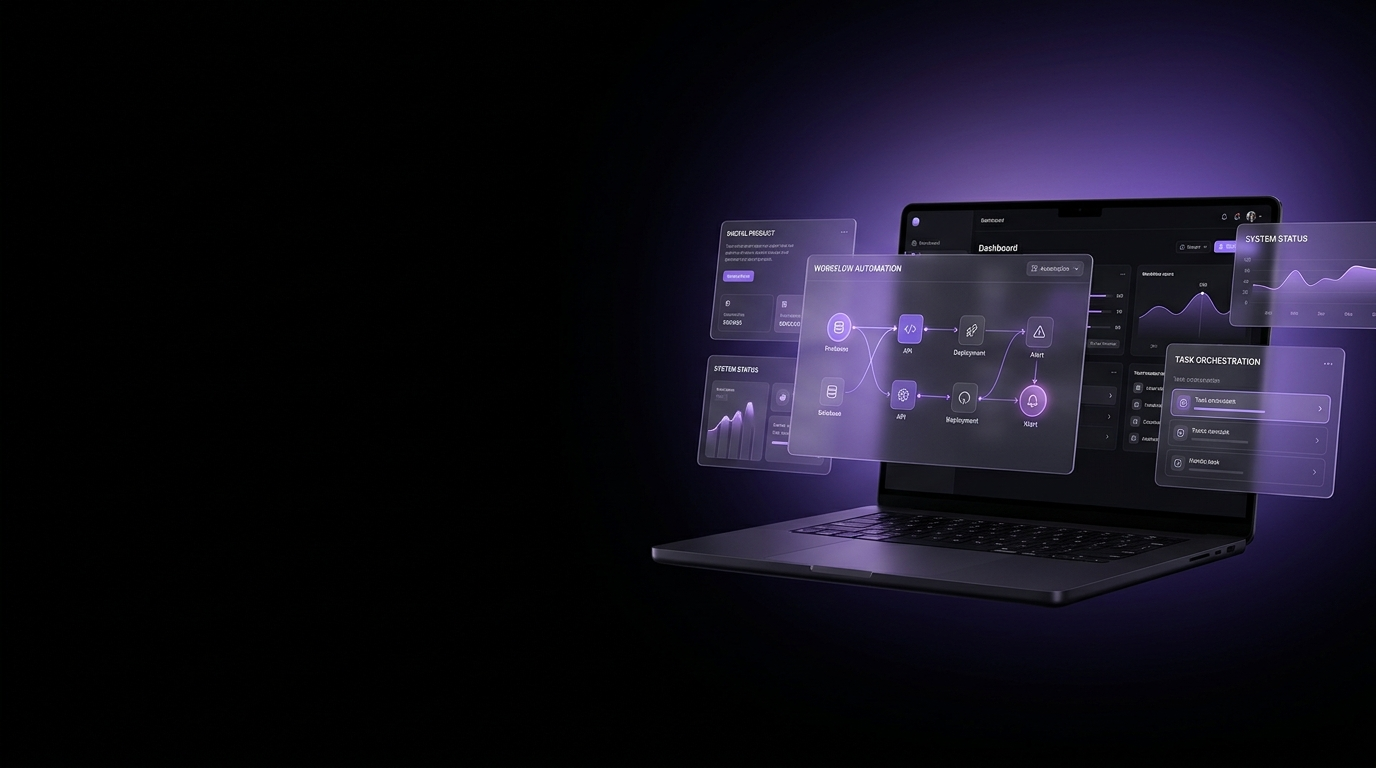
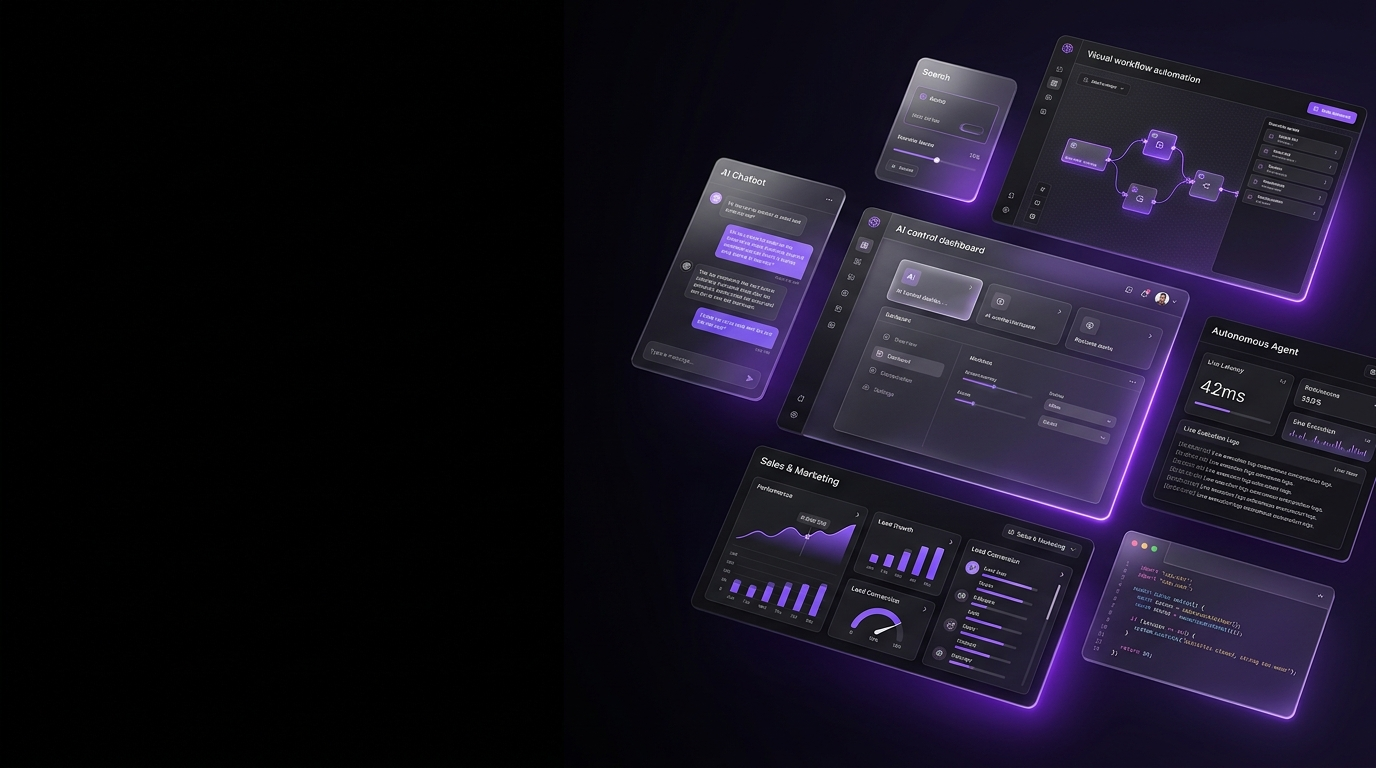
feat: implement modular 3D UI ecosystem hero visual with top headline alignment

diff --git a/src/components/sections/Hero.tsx b/src/components/sections/Hero.tsx
@@ -155,9 +155,9 @@ export default function Hero() {
         aria-hidden="true"
       />
 
-      {/* Hero Visual Artwork: Seamlessly blended on the right side */}
+      {/* Hero Visual Artwork: Seamlessly blended on the right side, starting aligned with headline */}
       <div 
-        className="absolute right-0 top-0 bottom-0 w-full md:w-3/4 lg:w-3/5 xl:w-1/2 pointer-events-none z-0 overflow-hidden"
+        className="absolute right-0 top-4 sm:top-8 lg:top-12 bottom-0 w-full md:w-3/4 lg:w-7/12 xl:w-1/2 pointer-events-none z-0 overflow-hidden"
         aria-hidden="true"
       >
         <Image
@@ -166,12 +166,12 @@ export default function Hero() {
           fill
           priority
           sizes="(max-width: 768px) 100vw, 55vw"
-          className="object-cover object-right opacity-50 sm:opacity-65 lg:opacity-90"
+          className="object-cover object-right-top opacity-60 sm:opacity-80 lg:opacity-100"
         />
-        {/* Soft edge gradients for natural, seamless blending into pitch black */}
-        <div className="absolute inset-0 bg-gradient-to-r from-black via-black/75 to-transparent lg:via-black/50" />
-        <div className="absolute inset-0 bg-gradient-to-t from-black via-transparent to-black/60" />
-        <div className="absolute inset-0 bg-gradient-to-b from-black via-transparent to-black" />
+        {/* Smooth feathered edge gradients for natural blend into pitch black without dulling colors */}
+        <div className="absolute inset-0 bg-gradient-to-r from-black via-black/60 to-transparent lg:via-black/25" />
+        <div className="absolute inset-0 bg-gradient-to-t from-black/50 via-transparent to-black/30" />
+        <div className="absolute inset-0 bg-gradient-to-b from-transparent via-transparent to-black" />
       </div>
 
       {/* Ambient purple glow behind right side visual */}
